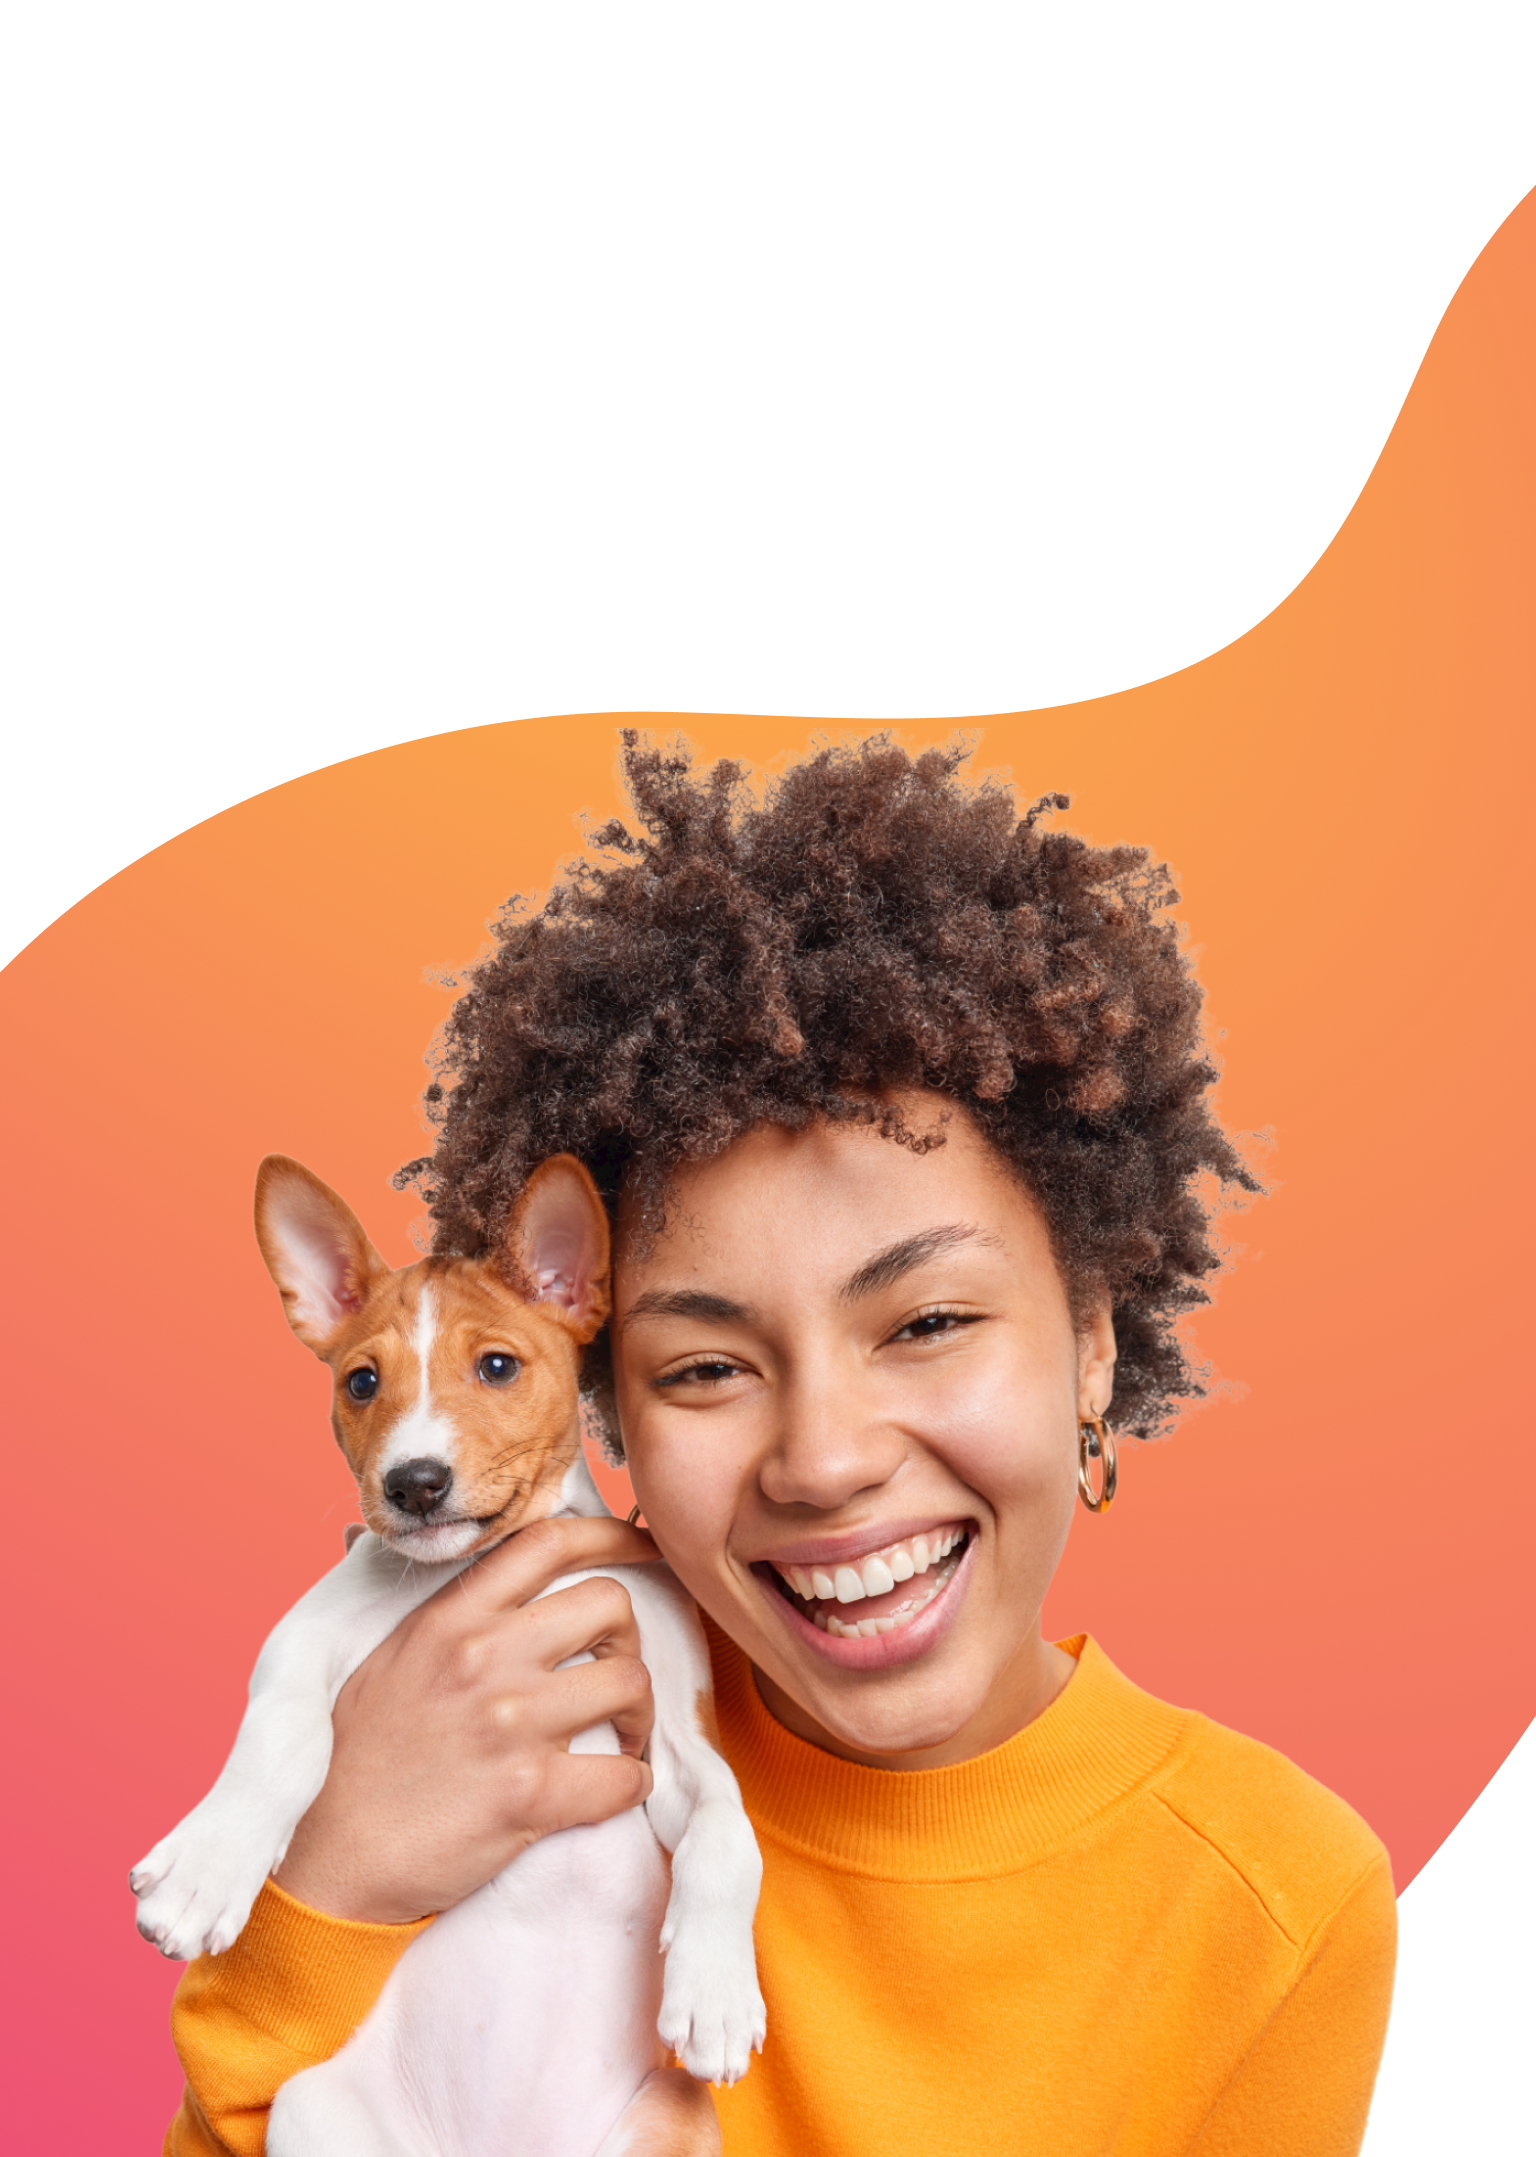
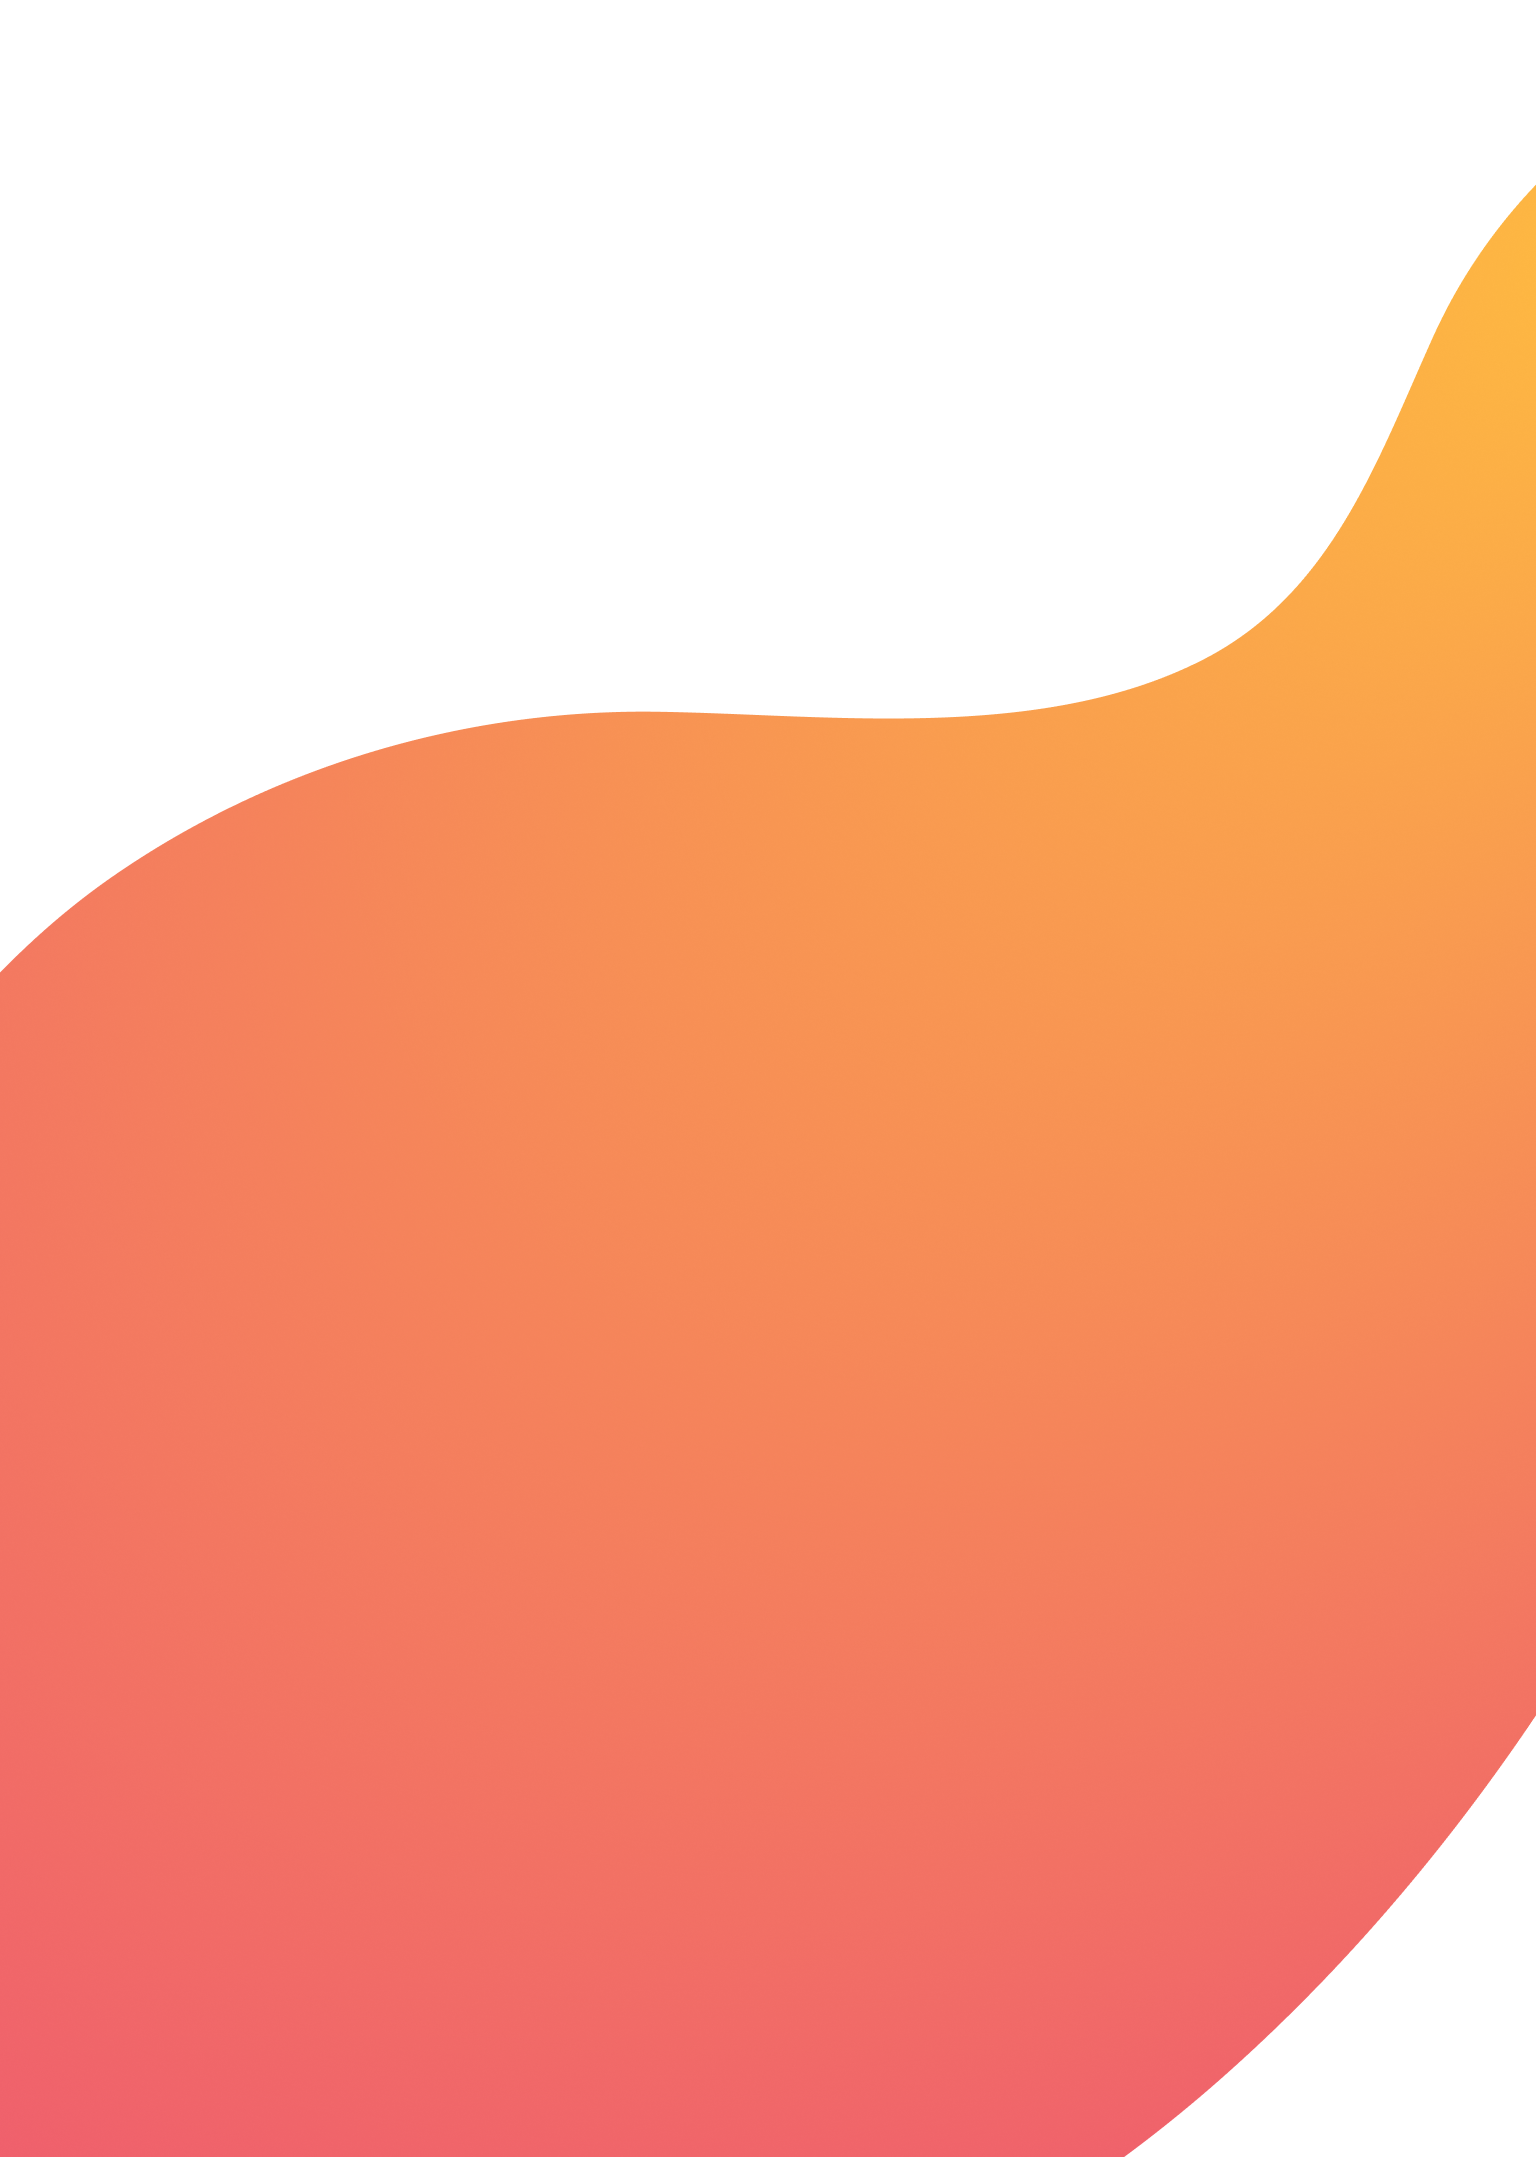
bugfix main page

diff --git a/src/styles/GlobalStyles.jsx b/src/styles/GlobalStyles.jsx
@@ -3,11 +3,14 @@ import styled from '@emotion/styled';
 import { theme } from 'styles/theme';
 import { normalize } from 'styled-normalize';
 
-import mobileImage from '../images/mainPage/home-bg-m@2x.png';
-import tabImage from '../images/mainPage/home-bg-t@2x.png';
-
+// import mobileImage from '../images/mainPage/home-bg-m@2x.png';
+// import tabImage from '../images/mainPage/home-bg-t@2x.png';
+import dsctpImageHomeBg from '../images/mainPage/home-bg-d@1x.png';
 import dsctpImageGirl from '../images/mainPage/home-bg3-d@1x.png';
 import dsctpImageHeart from '../images/mainPage/home-bg4-d@1x.png';
+import dsctpImageHomeBg2x from '../images/mainPage/home-bg-d@2x.png';
+import dsctpImageGirl2x from '../images/mainPage/home-bg3-d@2x.png';
+import dsctpImageHeart2x from '../images/mainPage/home-bg4-d@2x.png';
 
 export const GlobalStyles = css`
   ${normalize}
@@ -131,6 +134,27 @@ export const Container = styled.div`
 
 export const Main = styled.main`
   flex: 1 0 auto;
-  background: url(${dsctpImageHeart}) right 476px top 170px no-repeat,
-    url(${dsctpImageGirl}) right 20px bottom 0 no-repeat;
+
+  ${({ page }) =>
+    page === 'main' &&
+    css`
+      @media (min-width: 768) {
+      }
+
+      @media (min-width: 1280px) {
+        background-image: url(${dsctpImageGirl}), url(${dsctpImageHeart}),
+          url(${dsctpImageHomeBg});
+        background-position: right 20px bottom 0, right 38% bottom 90%,
+          right 0 bottom 0;
+        background-repeat: no-repeat, no-repeat, no-repeat;
+        background-size: auto 100%, 92px 89px, 100% auto;
+
+        @media (min-device-pixel-ratio: 2),
+          (min-resolution: 192dpi),
+          (min-resolution: 2dppx) {
+          background-image: url(${dsctpImageGirl2x}), url(${dsctpImageHeart2x}),
+            url(${dsctpImageHomeBg2x});
+        }
+      }
+    `}
 `;

diff --git a/src/pages/RegisterPage/RegisterPage.jsx b/src/pages/RegisterPage/RegisterPage.jsx
@@ -2,9 +2,9 @@ import { useState } from 'react';
 import { BackgroundContainer } from '../../components/Auth/Auth.styled';
 import FirstStep from '../../components/Auth/RegisterForm/FirstStep';
 import SecondStep from '../../components/Auth/RegisterForm/SecondStep';
-import MobileBgImage from '../../components/MainPageImages/MobileBgImage';
-import TabletBgImage from '../../components/MainPageImages/TabletBgImage';
-import DesktopBgImage from '../../components/MainPageImages/DesktopBgImage';
+// import MobileBgImage from '../../components/MainPageImages/MobileBgImage';
+// import TabletBgImage from '../../components/MainPageImages/TabletBgImage';
+// import DesktopBgImage from '../../components/MainPageImages/DesktopBgImage';
 import { selectIsLogin } from 'redux/auth/auth-selectors';
 import { useSelector } from 'react-redux';
 import { Navigate } from 'react-router';
@@ -50,10 +50,10 @@ export default function RegisterPage() {
     <>
       <BackgroundContainer>
         {Child}
-        <MobileBgImage />
+        {/* <MobileBgImage /> */}
       </BackgroundContainer>
-      <TabletBgImage />
-      <DesktopBgImage />
+      {/* <TabletBgImage />
+      <DesktopBgImage /> */}
     </>
   );
 }

diff --git a/src/pages/LoginPage/LoginPage.jsx b/src/pages/LoginPage/LoginPage.jsx
@@ -4,9 +4,9 @@ import {
   StyledLink,
   BackgroundContainer,
 } from '../../components/Auth/Auth.styled';
-import MobileBgImage from '../../components/MainPageImages/MobileBgImage';
-import TabletBgImage from '../../components/MainPageImages/TabletBgImage';
-import DesktopBgImage from '../../components/MainPageImages/DesktopBgImage';
+// import MobileBgImage from '../../components/MainPageImages/MobileBgImage';
+// import TabletBgImage from '../../components/MainPageImages/TabletBgImage';
+// import DesktopBgImage from '../../components/MainPageImages/DesktopBgImage';
 import GoogleIcon from '../../components/Auth/GoogleSignIn/GoogleIcon';
 import { selectIsLogin } from 'redux/auth/auth-selectors';
 import { useDispatch, useSelector } from 'react-redux';
@@ -47,9 +47,9 @@ export default function LoginPage() {
           <StyledLink to="/restore">Password recovery</StyledLink>
         </LinkText>
       </BackgroundContainer>
-      <MobileBgImage />
+      {/* <MobileBgImage />
       <TabletBgImage />
-      <DesktopBgImage />
+      <DesktopBgImage /> */}
     </>
   );
 }

diff --git a/src/pages/MainPage/MainPage.styled.jsx b/src/pages/MainPage/MainPage.styled.jsx
@@ -5,12 +5,10 @@ export const Wrapper = styled.div``;
 export const Title = styled.h1`
   @media screen and (min-width: 320px) {
     // position: absolute;
-
     font-style: normal;
     font-weight: 700;
     font-size: 32px;
     line-height: 1.38;
-
     display: inline-block;
     margin-top: 60px;
     margin-bottom: 0px;
@@ -20,23 +18,18 @@ export const Title = styled.h1`
     font-weight: 700;
     font-size: 68px;
     line-height: 1.47;
-
     margin-top: 90px;
     margin-bottom: 0px;
-
     display: inline-block;
     text-align: left;
   }
-
   @media screen and (min-width: 1280px) {
     font-style: normal;
     font-weight: 700;
     font-size: 68px;
     line-height: 1.47;
-
     margin-top: 93px;
     margin-bottom: 0px;
-
     display: inline-block;
     text-align: left;
   }
@@ -125,7 +118,6 @@ export const DesktopBgImageLogin = styled.img`
     z-index: -2;
     display: block;
     right: 0;
-
     bottom: 0;
   }
 `;

diff --git a/src/components/App.jsx b/src/components/App.jsx
@@ -10,12 +10,7 @@ import {
   SharedLayout,
   PasswordRecoveryForm,
 } from './components';
-import MainPage from './MainPageImages/MainPage';
 import lazyPages from 'utils/lazyPages';
-// import NoticesLayoutPage from 'pages/NoticesPage/NoticesLayoutPage';
-// import NoticesFavorites from 'pages/NoticesPage/NoticesFavorites';
-// import NoticesCategory from 'pages/NoticesPage/NoticesCategory';
-// import NoticesOwn from 'pages/NoticesPage/NoticesOwn';
 
 const {
   NoticesLayoutPage,
@@ -27,6 +22,7 @@ const {
   RegisterPage,
   LoginPage,
   UserPage,
+  MainPage,
 } = lazyPages;
 
 export const App = () => {

diff --git a/src/utils/lazyPages/lazyPages.js b/src/utils/lazyPages/lazyPages.js
@@ -15,6 +15,8 @@ const NoticesFavorites = lazy(() =>
 const NoticesCategory = lazy(() => import('pages/NoticesPage/NoticesCategory'));
 const NoticesOwn = lazy(() => import('pages/NoticesPage/NoticesOwn'));
 
+const MainPage = lazy(() => import('pages/MainPage'));
+
 const lazyPages = {
   NoticesLayoutPage,
   NoticesFavorites,
@@ -25,6 +27,7 @@ const lazyPages = {
   RegisterPage,
   LoginPage,
   UserPage,
+  MainPage,
 };
 
 export default lazyPages;

diff --git a/src/pages/MainPage/MainPage.jsx b/src/pages/MainPage/MainPage.jsx
@@ -1,0 +1,16 @@
+import { Title, Wrapper } from './MainPage.styled';
+
+const Headline = () => {
+  return (
+    <>
+      <Wrapper>
+        <Title>
+          Take good care of <br />
+          your small pets
+        </Title>
+      </Wrapper>
+    </>
+  );
+};
+
+export default Headline;

diff --git a/src/components/SharedLayout/SharedLayout.js b/src/components/SharedLayout/SharedLayout.js
@@ -8,7 +8,7 @@ export default function SharedLayout() {
     <>
       <Suspense fallback={<Loader />}>
         <Header />
-        <Main>
+        <Main page="main">
           <Container>
             <Outlet />
           </Container>

diff --git a/src/pages/MainPage/index.js b/src/pages/MainPage/index.js
@@ -1,0 +1,1 @@
+export { default } from './MainPage';
